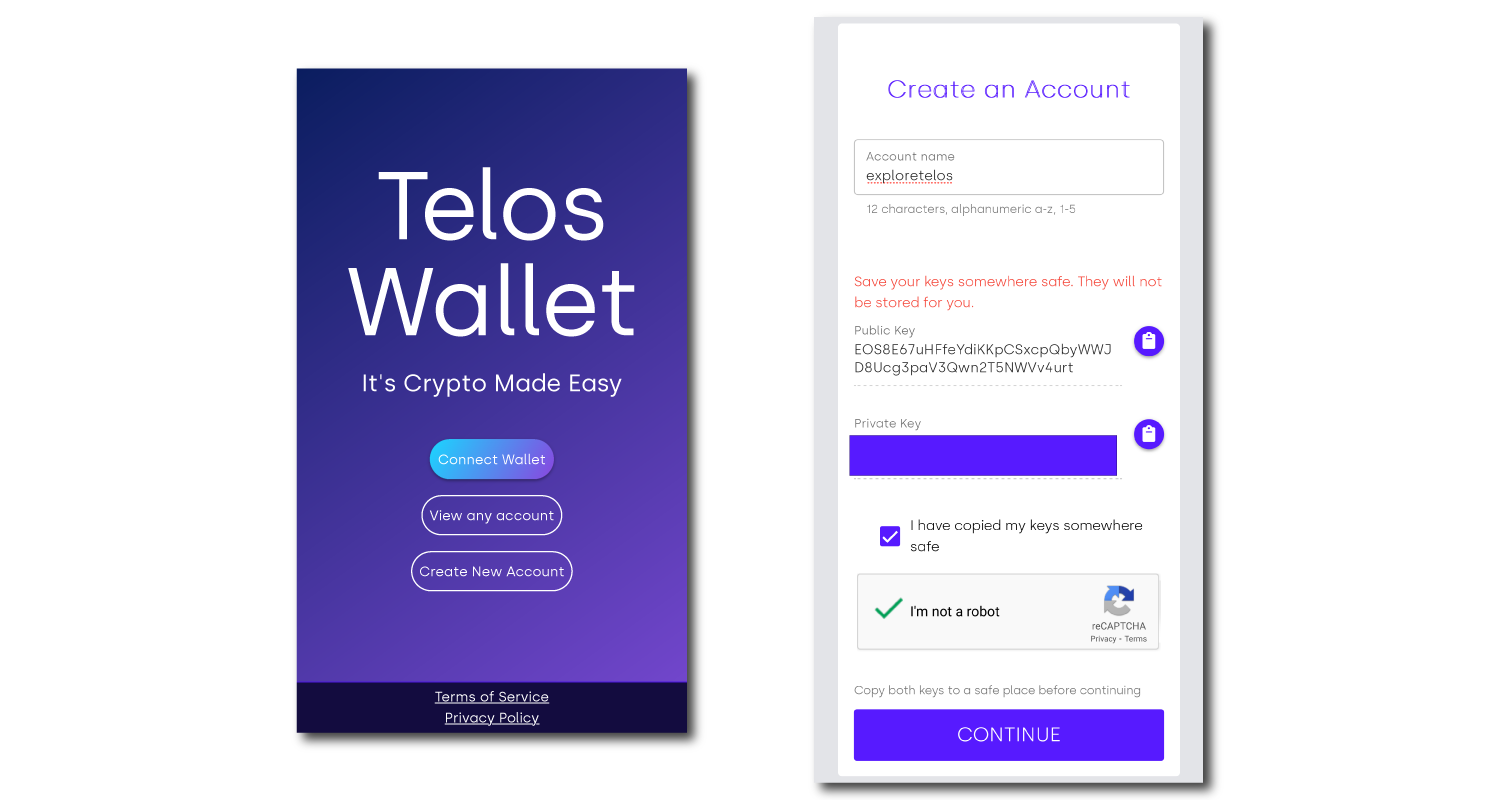
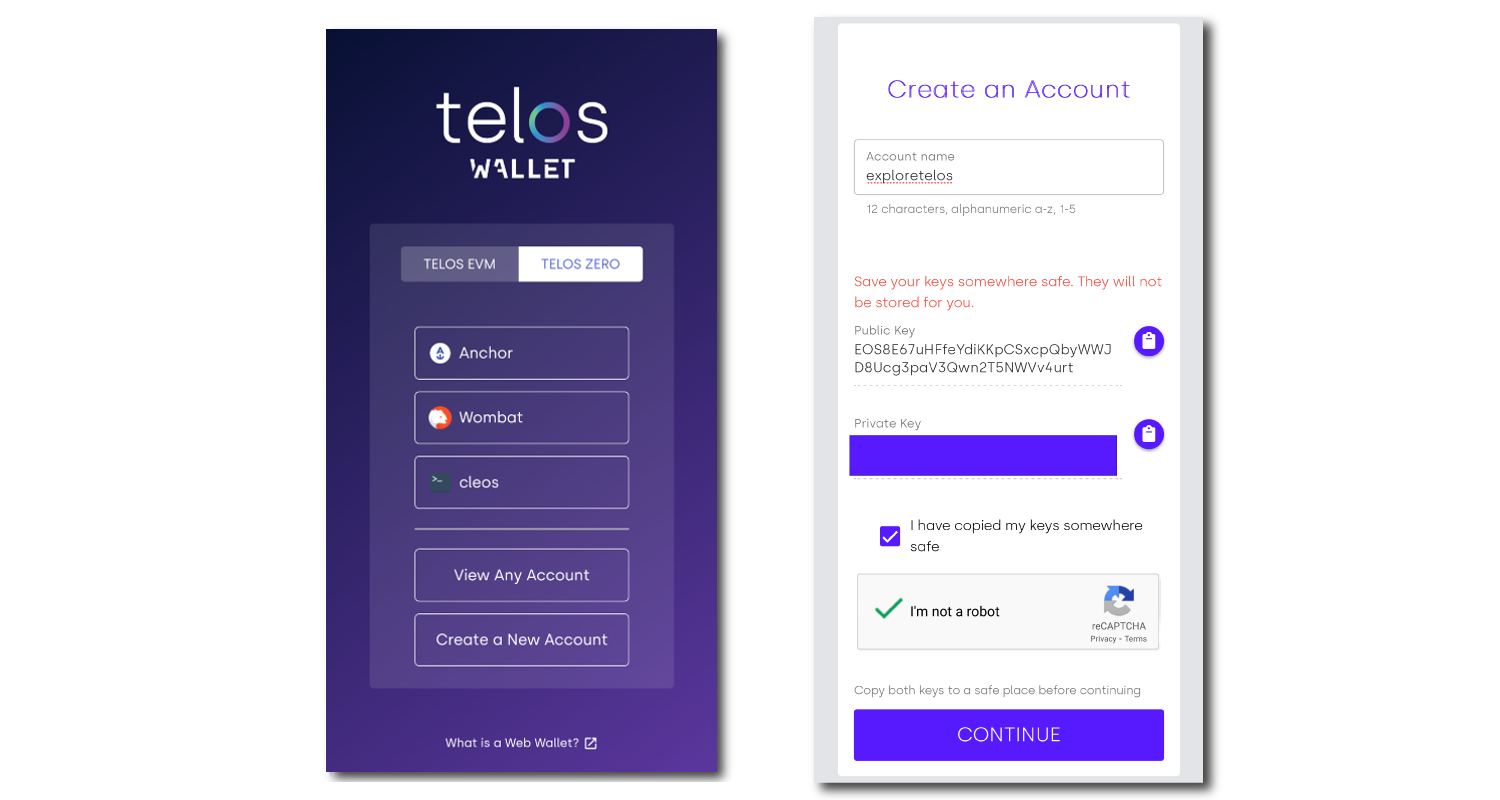
updating wallet creation user docs

Changed region(s): [[0.184, 0.0312, 0.4907, 1.0]]

diff --git a/src/css/custom.css b/src/css/custom.css
@@ -609,3 +609,38 @@ a[href=""] {
   gap: 25px;
   grid-template-columns: repeat(auto-fill, 300px);
 }
+
+.wallet-container {
+  display: flex;
+  justify-content: center;
+  gap: 75px; /* Adjust the space between the two divs */
+}
+
+.clickable-a {
+  text-align: center; /* Center the text under the image */
+  cursor: pointer;
+}
+
+.clickable-a div {
+  font-size: 24px; /* Adjust this value as needed to match your design */
+  font-weight: bold; /* Bold text */
+  font-family: 'Arial', sans-serif; /* Common sans-serif font */
+  margin-top: 10px; /* Space between the image and the text */
+}
+
+.clickable-a img {
+  width: 350px; /* Adjust the width of the images */
+  height: auto;
+}
+
+/* Ensure links do not have the default underline and color */
+.clickable-a a {
+  text-decoration: none;
+  color: inherit; /* This makes the text color inherit from the parent element */
+}
+
+@media (max-width: 600px) {
+  .clickable-div div {
+    font-size: 18px; /* Smaller font size for mobile */
+  }
+}
